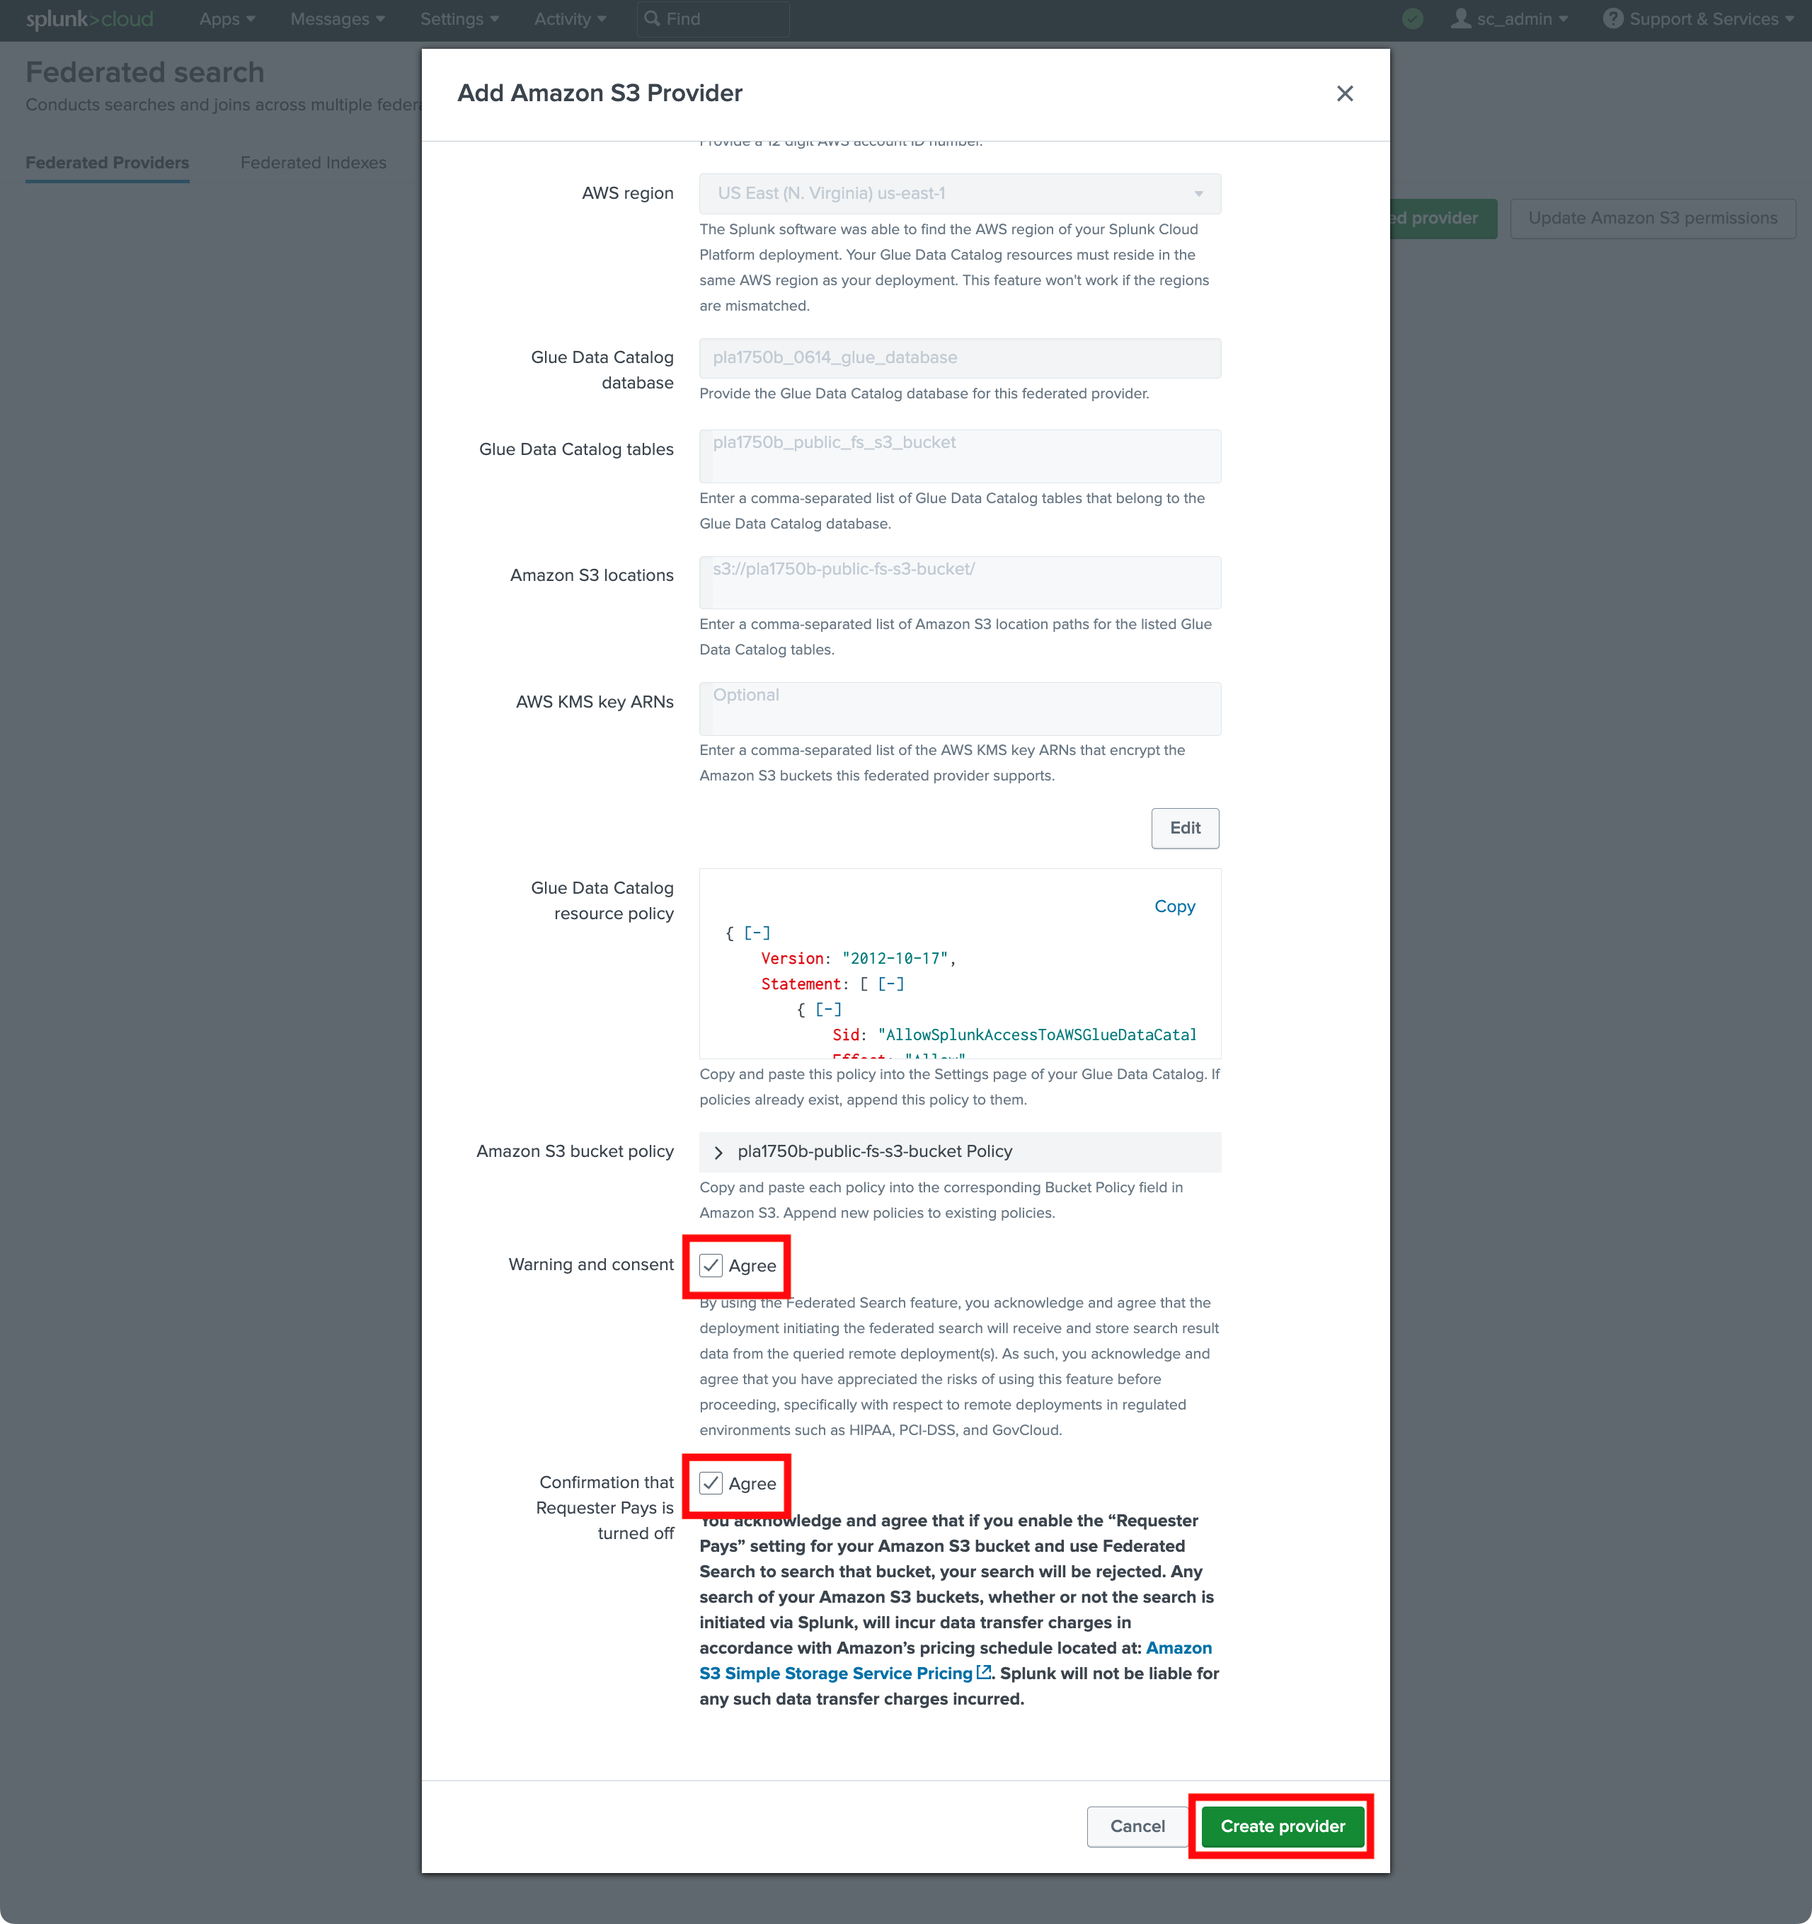
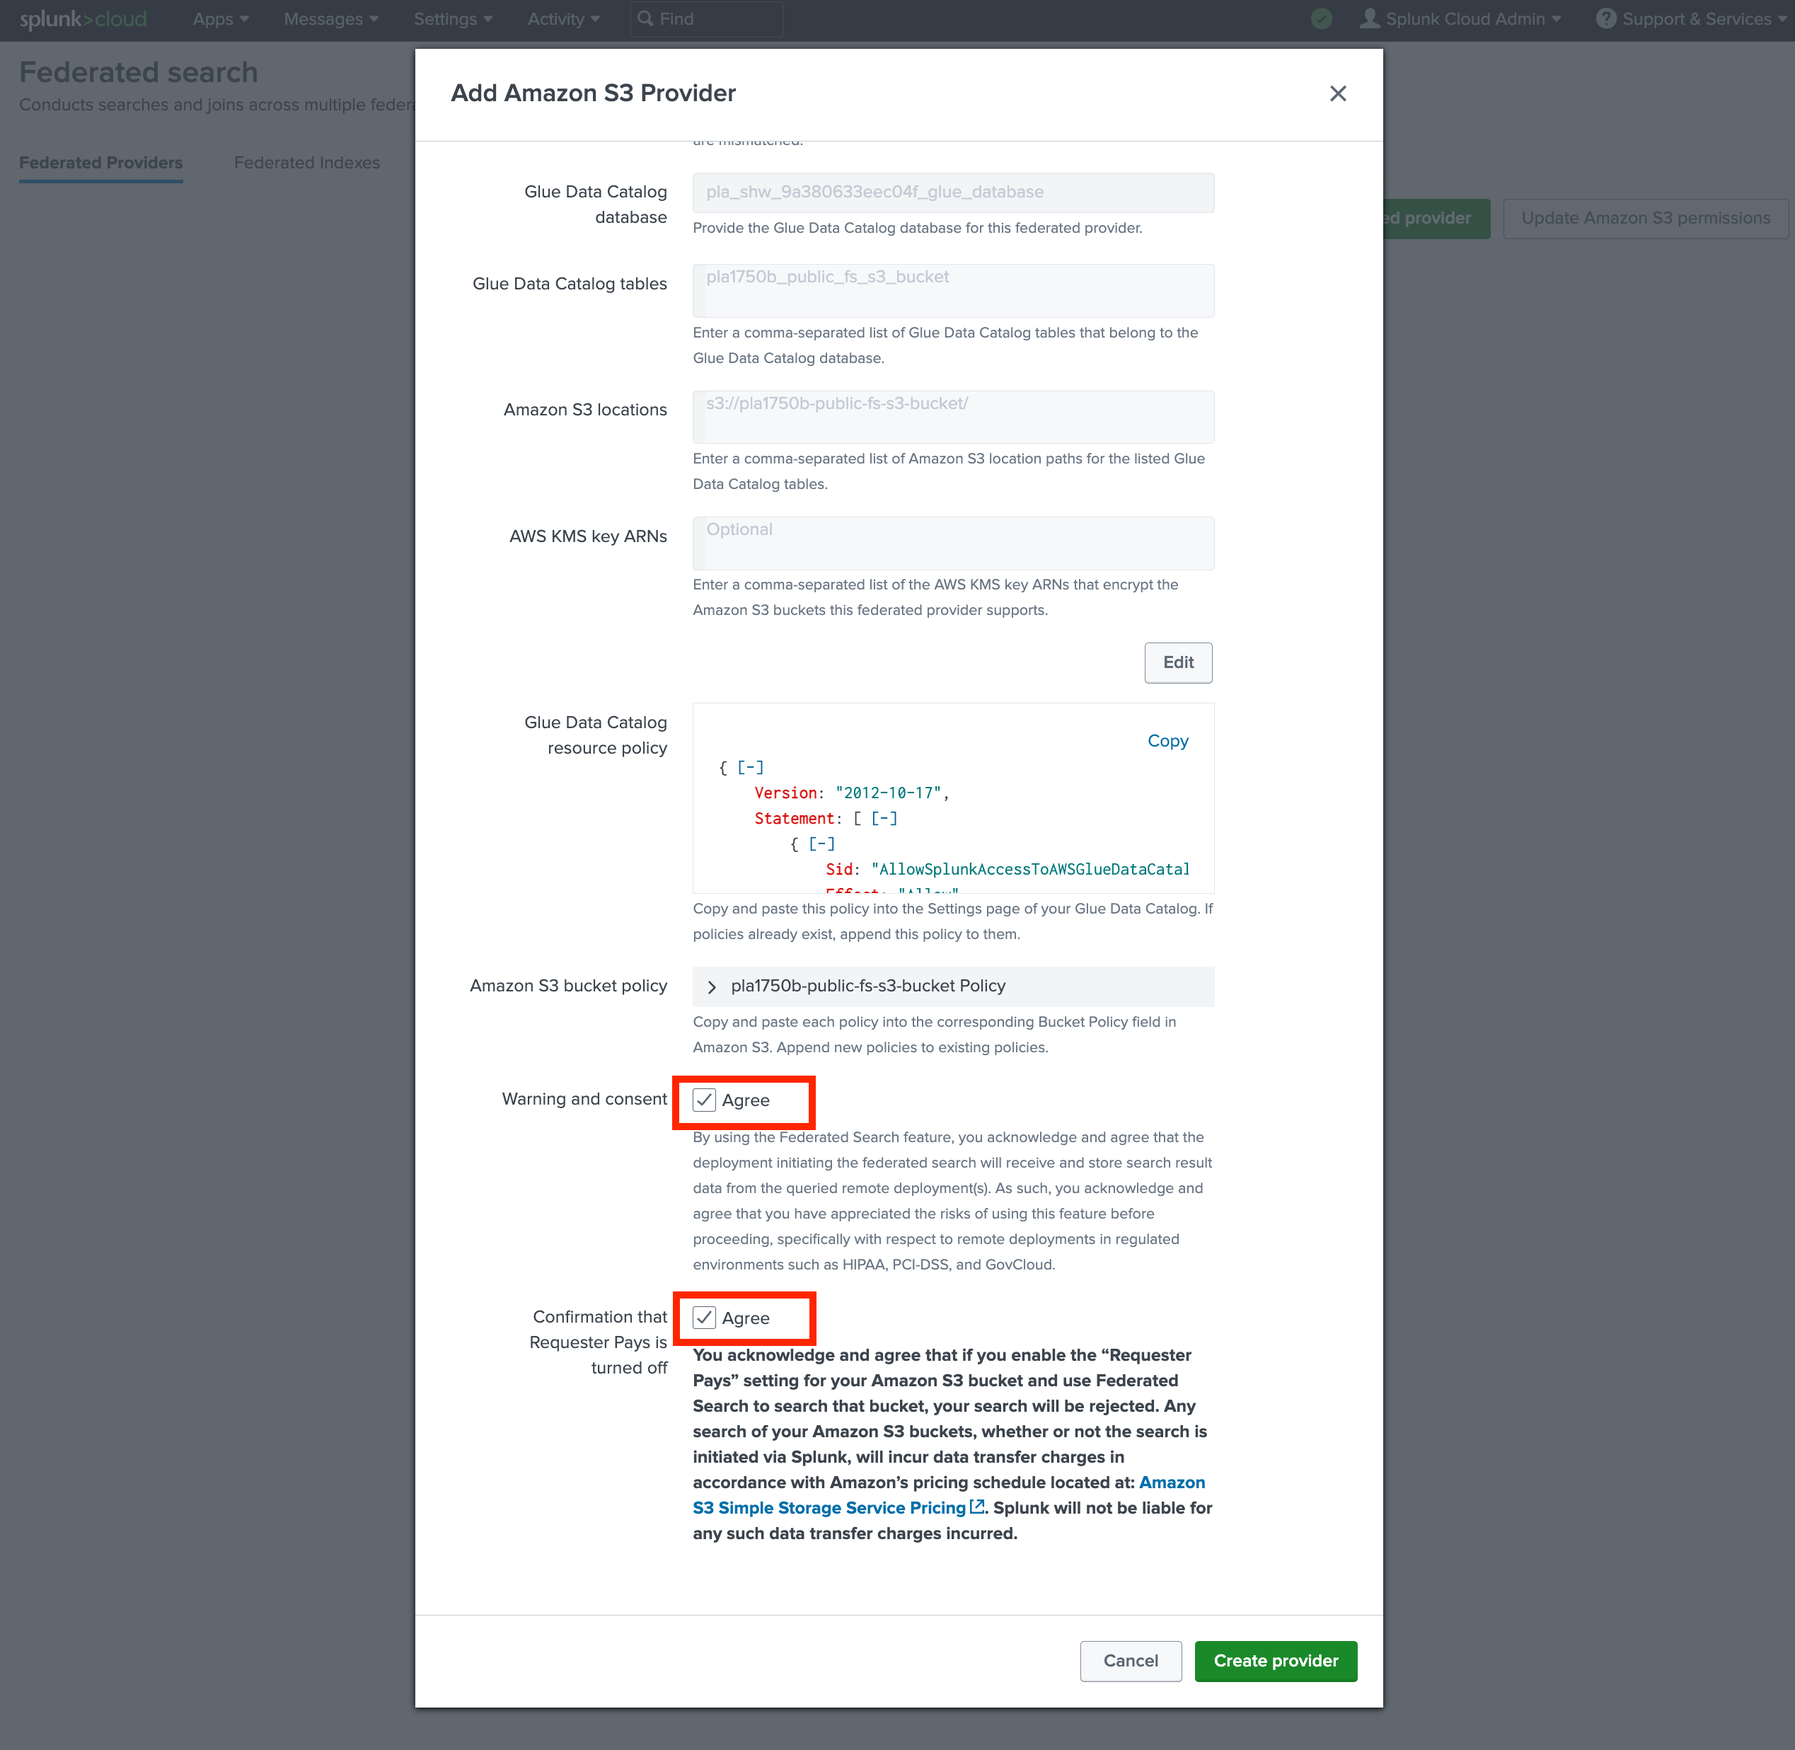
Added feedback and changes for modules 0, 1, 2, and 5

diff --git a/module_2/Module 2 FS-S3.md b/module_2/Module 2 FS-S3.md
@@ -6,7 +6,7 @@ Specifically for this module and for Forthly, after configuring FS-S3 in this mo
 1. Demonstrating to auditors that AWS VPC Flow Log data is being kept in S3 for long retention times
 2. Retrieve data from S3 that has aged out of Splunk to help the SOC with a security investigation
 
-You'll be searching against a a different Amazon S3 bucket than what you configured in the last module.  This new S3 bucket has more data to search against what Splunk has placed there via ingest actions over the past few minutes!
+You'll be searching against a different Amazon S3 bucket than what you configured in the last module.  This new S3 bucket has more data to search against what Splunk has placed there via ingest actions over the past few minutes!
 
 FS-S3 has a few parts and there are a few different steps to configure it that involve both the Splunk Admin and AWS Admin.  FS-S3 uses Splunk and AWS-based technologies like Amazon S3, and AWS Glue to search the data in the S3 buckets.  The full documentation and configuration instructions will be available once FS-S3 is released but the configuration overview is:
 
@@ -15,7 +15,7 @@ FS-S3 has a few parts and there are a few different steps to configure it that i
 3. Use an AWS Glue crawler ([https://docs.aws.amazon.com/glue/latest/dg/add-crawler.html](https://docs.aws.amazon.com/glue/latest/dg/add-crawler.html)) to scan over the files in the Amazon S3 bucket to determine the file schema, and store it in the Glue database and table.
 4. Configure a Federated Search Provider in Splunk to search the data in the Amazon S3 bucket.
 
-All of these AWS-side components have already been configured for you in this module, so you'll only need to handle that fourth part of configuring FS-S3 in Splunk.  A CloudFormation template containing the resource definitions and configurations used to configure the AWS-side components can be found [here](https://github.com/preeves-splunk/pla1750b/blob/v1/cloudformation-per-attendee.yaml).
+All of these AWS-side components have already been configured for you in this module, so you'll only need to handle that fourth part of configuring FS-S3 in Splunk.  A CloudFormation template containing the resource definitions and configurations used to configure the AWS-side components can be found [here](https://github.com/preeves-splunk/pla1750b/blob/main/cloudformation-per-attendee.yaml).
 
 It’s worth noting here that in this workshop you're only searching data sent to an Amazon S3 bucket via ingest actions.  However, that’s only due to workshop constraints.  There’s a wide variety of data formats Amazon Glue can read ([https://docs.aws.amazon.com/glue/latest/dg/aws-glue-programming-etl-format.html](https://docs.aws.amazon.com/glue/latest/dg/aws-glue-programming-etl-format.html)) that are not related to Splunk.  If you have data already in an Amazon S3 bucket that can be read by Amazon Glue, it can be searched by FS-S3 as well regardless of what generated the data.
 
@@ -36,7 +36,7 @@ In this task you'll be configuring Splunk Cloud to search VPC Flow Log data resi
 3. On the `Add Amazon S3 Provider` pane, fill out the following fields:
 	1. **Federated provider name:** `pla1750b_workshop`
 	2. **AWS Account ID:** `139817522827`
-	3. **Glue Data Catalog database**: This needs to start with the Splunk Cloud name but replace the `-` (dashes) with `_` (underscores), and ending in `_glue_database`.  For example, with a Splunk Cloud name of `pla1750b-0603`, this would need to be set to `pla1750b_0603_glue_database`.  See the image below for an example of what the Splunk Cloud name is.
+	3. **Glue Data Catalog database**: This needs to start with the Splunk Cloud name but replace the `-` (dashes) with `_` (underscores), and ending in `_glue_database`.  For example, with a Splunk Cloud name of `pla-shw-9a380633eec04f`, this would need to be set to `pla_shw_9a380633eec04f_glue_database`.  See the image below for an example of what the Splunk Cloud name is.
 	4. **Glue Data Catalog tables**: `pla1750b_public_fs_s3_bucket`
 	5. **Amazon S3 locations**: `s3://pla1750b-public-fs-s3-bucket/`
 
@@ -100,7 +100,7 @@ The new `sdselect` command is used to query data stored in Amazon S3 made search
 
 ![Splunk Cloud with results from search | sdselect * from federated:vpcflowlogs with search highlighted in red and search results highlighted in green](https://github.com/preeves-splunk/pla1750b/blob/main/module_2/2_1.png?raw=true)
 
-2. Modify the time range picker to be June 13th 2023 by clicking **All time**, then setting the **Date Range** to be between **6/13/2023 00:00:00** and **6/13/2023 24:00:00**, then re-run the query.  
+2. Modify the time range picker to be June 13th 2023 by clicking **All time**, then setting the **Date Range** to be between **6/13/2023** and **6/13/2023**, then re-run the query.  
 
 ![Splunk Cloud with results from search | sdselect * from federated:vpcflowlogs shown and time range picker being changed with search and time range highlighted in red and search results highlighted in green](https://github.com/preeves-splunk/pla1750b/blob/main/module_2/2_2.png?raw=true)
 
@@ -125,15 +125,17 @@ The Forthly SOC would like help investigating an ongoing security incident.  Spe
 
 Just like the previous task, for each one of these steps read the description for what the search is trying to accomplish then run the query.
 
-1. Make sure the base query runs over the timeframe of **June 17th through June 23rd**:
+1. Make sure the base query runs:
 
 ```
 | sdselect * from federated:vpcflowlogs
 ```
 
+2. Set the search the timeframe of **June 17th through June 23rd**:
+
 ![Splunk Cloud with results from search| sdselect * from federated:vpcflowlogs groupby source shown over June 17th through June 23rd timeframe with the search highlighted in red and results highlighted in green](https://github.com/preeves-splunk/pla1750b/blob/main/module_2/3_1.png?raw=true)
 
-2. Query for only the time and event fields:
+3. Query for only the time and event fields:
 
 ```
 | sdselect time, event from federated:vpcflowlogs
@@ -143,7 +145,7 @@ Notice how only the selected `time` and `event` fields are being returned.
 
 ![Splunk Cloud with results from search | sdselect time, event from federated:vpcflowlogs groupby source shown over June 17th through June 23rd timeframe with the search highlighted in red and results highlighted in green](https://github.com/preeves-splunk/pla1750b/blob/main/module_2/3_2.png?raw=true)
 
-3. Query for just events in the AWS Account ID `958172947816`:
+4. Query for just events in the AWS Account ID `958172947816`:
 
 ```
 | sdselect time, event from federated:vpcflowlogs where source=958172947816
@@ -153,7 +155,7 @@ Notice how only events involving the AWS account number `958172947816` are shown
 
 ![Splunk Cloud with results from search | sdselect time, event from federated:vpcflowlogs where source=958172947816 shown over June 17th through June 23rd timeframe with the search highlighted in red and results highlighted in green](https://github.com/preeves-splunk/pla1750b/blob/main/module_2/3_3.png?raw=true)
 
-4. Add a filter to just look for events from `eni-0212b9abe7101dbcb`:
+5. Add a filter to just look for events from `eni-0212b9abe7101dbcb`:
 
 ```
 | sdselect time, event from federated:vpcflowlogs where source=958172947816 AND event like "%eni-0212b9abe7101dbcb%"
@@ -163,7 +165,7 @@ Notice how only events with the string `eni-0212b9abe7101dbcb` are returned.
 
 ![Splunk Cloud with results from search| sdselect time, event from federated:vpcflowlogs where source=958172947816 AND event like "%eni-0212b9abe7101dbcb%" shown over June 17th through June 23rd timeframe ith the search highlighted in red and results highlighted in green](https://github.com/preeves-splunk/pla1750b/blob/main/module_2/3_4.png?raw=true)
 
-5. Increase the `LIMIT` to make sure all of the events are being retrieved from the Amazon S3 bucket
+6. Increase the `LIMIT` to make sure all of the events are being retrieved from the Amazon S3 bucket
 
 ```
 | sdselect time, event from federated:vpcflowlogs where source=958172947816 AND event like "%eni-0212b9abe7101dbcb%" LIMIT 100000000
@@ -173,7 +175,7 @@ Notice how there are more than the default 100,000 events being returned.
 
 ![Splunk Cloud with results from search| sdselect time, event from federated:vpcflowlogs where source=958172947816 AND event like "%eni-0212b9abe7101dbcb%" LIMIT 100000000 over June 17th through June 23rd timeframe ith the search highlighted in red and results highlighted in green](https://github.com/preeves-splunk/pla1750b/blob/main/module_2/3_5.png?raw=true)
 
-6. Data retrieved via the `sdselect` command doesn't know about sourcetypes or search-time field extractions, other SPL commands like `rex` need to be used in order to extract fields at search time.  Use the query below to extract the relevant CIM fields for VPC Flow Logs  (the regular expression was taken from the Splunk Add-on for Amazon Web Services):
+7. Data retrieved via the `sdselect` command doesn't know about sourcetypes or search-time field extractions, other SPL commands like `rex` need to be used in order to extract fields at search time.  Use the query below to extract the relevant CIM fields for VPC Flow Logs  (the regular expression was taken from the Splunk Add-on for Amazon Web Services):
 
 ```
 | sdselect time, event from federated:vpcflowlogs where source=958172947816 AND event like "%eni-0212b9abe7101dbcb%" LIMIT 100000000
@@ -184,7 +186,7 @@ Notice how CIM field extractions like `dest_port`, and `src_ip` are now in the e
 
 ![Splunk Cloud with results from search shown ith the search highlighted in red and results highlighted in green](https://github.com/preeves-splunk/pla1750b/blob/main/module_2/3_6.png?raw=true)
 
-7. Add a `stats` command to calculate the total number of bytes transmitted between the suspect ENI, each source IP it held, and each destination IP it talked to:
+8. Add a `stats` command to calculate the total number of bytes transmitted between the suspect ENI, each source IP it held, and each destination IP it talked to:
 
 ```
 | sdselect time, event from federated:vpcflowlogs where source=958172947816 AND event like "%eni-0212b9abe7101dbcb%" LIMIT 100000000

diff --git a/module_1/Module 1 Ingest Actions.md b/module_1/Module 1 Ingest Actions.md
@@ -140,13 +140,15 @@ Notice how there are credit card numbers in the events.
 	- **Replace Expression:** `\1XXXX\3`
 7. Click the **Apply** button.
 
+Notice how in the Data Preview pane you can now see that only the remaining 4 digits of the credit card number are shown, and not the full credit card number.
+
 ![Splunk Cloud ingest actions pane selecting Filter using Regular Expressions rule with regular expressions and Apply button highlighted in red](https://github.com/preeves-splunk/pla1750b/blob/main/module_1/3_4.png?raw=true)
 
 8. Save and deploy this rule set by clicking the **Save** button.
 
 ## Task 4: Change Destination Index
 
-The cloud storage team has needs all cloud storage-related events sent to the `storage_services` index, but right now those events are being routed to the `main` index.  In this task, you will re-route those events to the correct index.
+The cloud storage team has needs all cloud storage-related events sent to the `storage_services` index, but right now those events are being routed to the `main` index.  In this task, you will re-route those events to the correct index.  It's consdiered a best practice to set the index value at ingestion time, but sometimes, like with ingesting O365 logs, that cannot be done and the second best way is to use ingest actions.
 
 1. Run the search below to view the cloud storage-related events in the `main` index:
 
@@ -256,7 +258,7 @@ index=aws sourcetype=aws:cloudwatchlogs:vpcflow
 
 ![Splunk Cloud ingest actions page with the Destinations tab and Create new Destination text highlighted in red](https://github.com/preeves-splunk/pla1750b/blob/main/module_1/6_2.png?raw=true)
 
-3. Configure the first set of destination settings by filling out the following fields in the `Create New Destination: Step 1` pane:
+3. Configure the first set of destination settings by setting the following fields in the `Create New Destination: Step 1` pane (leave all other fields or settings as default):
 	- **Destination Title:** `ia-dest`
 	- **S3 Bucket Name:** add `ia-dest` to the end of the pre-populated text.  When sending to an S3 destination using ingest actions, the bucket name must start with the Splunk Cloud stack name, and the randomly defined prefix.
 4. Click the **Next** button.
@@ -288,7 +290,7 @@ It's also worth mentioning that a subset of the AWS VPC Flow Logs can be sent to
 
 ## (Bonus) Task 7: Reverse Regex Golf
 
-You may have noticed the regex in task 2 was not the prettiest: `(([a-z0-9\_]+=(""|(b')?[0-]+(')?|TLS_NULL_WITH_NULL_NULL|Unknown|"Not Checked"|[0:]+|N\/A)\s))` .  
+You may have noticed the regex in task 2 was not the prettiest: `([a-z0-9\_]+=(""|(b')?[0-]+(')?|TLS_NULL_WITH_NULL_NULL|Unknown|"Not Checked"|[0:]+|N\/A)\s)` .  
 
 On regex101.com, with PCRE2 selected, it takes 7067 steps to process the sample event below.
 

diff --git a/module_5/Module 5 Accelerated Searching.md b/module_5/Module 5 Accelerated Searching.md
@@ -74,7 +74,7 @@ You’ll be using the `collect` command and summary indexing in this task.  Here
 - Use the `testmode` option for the collect command when writing and testing the search to avoid writing data to the destination index.
 - By default, `collect` will set the sourcetype to `stash`, which will not impact license utilization.  If you set the sourcetype in the `collect` command to something other than `stash`, this will impact license usage.
 - Use a `marker` of `search_name` to make it easy to figure out what search the summarized data came from 
-- Make the search summarizing the data performance to minimize Splunk resource (and SVC) utilization.
+- Make the search summarizing the data performant to minimize Splunk resource (and SVC) utilization.
 
 Follow these instructions to configure the summary indexing:
 
@@ -144,7 +144,7 @@ Notice how the data can be sent to a table just like if the original `timechart`
 | stats sum(eventSize) as total_event_size by index
 ```
 
-Notice how the event sizes per index are significantly different, with the summarized data in the `summary` index is smaller than the raw events in the `purchases` index take up more space.
+Notice how the event sizes per index are significantly different, with summarized events in the `summary` index being significantly smaller than the raw events in the `purchases` index.
 
 ## Task 3: Metricize Events
 
